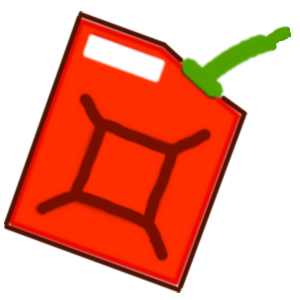
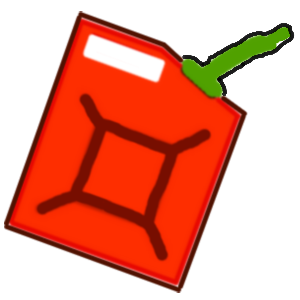
Search improvements

diff --git a/templates/layout.html b/templates/layout.html
@@ -21,7 +21,7 @@
 <title>nafta.net - {% block title %}{% endblock %}</title>
 
 <div class = "sidebar">
-    <a href="/"><img src="/static/favicon.ico"></a><br>
+    <a href="/"><img src="/static/icon2.png" height="75px"></a><br>
     <a href="/search">Etsi</a><br>
     <a href="/stats">Tilastot</a><br>
     {% if session.username %}

diff --git a/templates/search.html b/templates/search.html
@@ -62,9 +62,12 @@
       </tbody>
     </table>
   </div>
-  
+
+  <!-- default sort by date -->
   <script>
-  $('#sortTable').DataTable();
+  $('#sortTable').DataTable({
+    "order": [[ 5, "desc" ]]
+  });
   </script>
 
 

diff --git a/queries.py b/queries.py
@@ -101,7 +101,7 @@ get_areas = "SELECT DISTINCT city \
 
 get_roads = "SELECT DISTINCT road \
         FROM stations \
-        WHERE operational = TRUE;"
+        WHERE operational = TRUE AND road != '0';"
 
 get_postnrs = "SELECT DISTINCT postnr \
         FROM stations \
